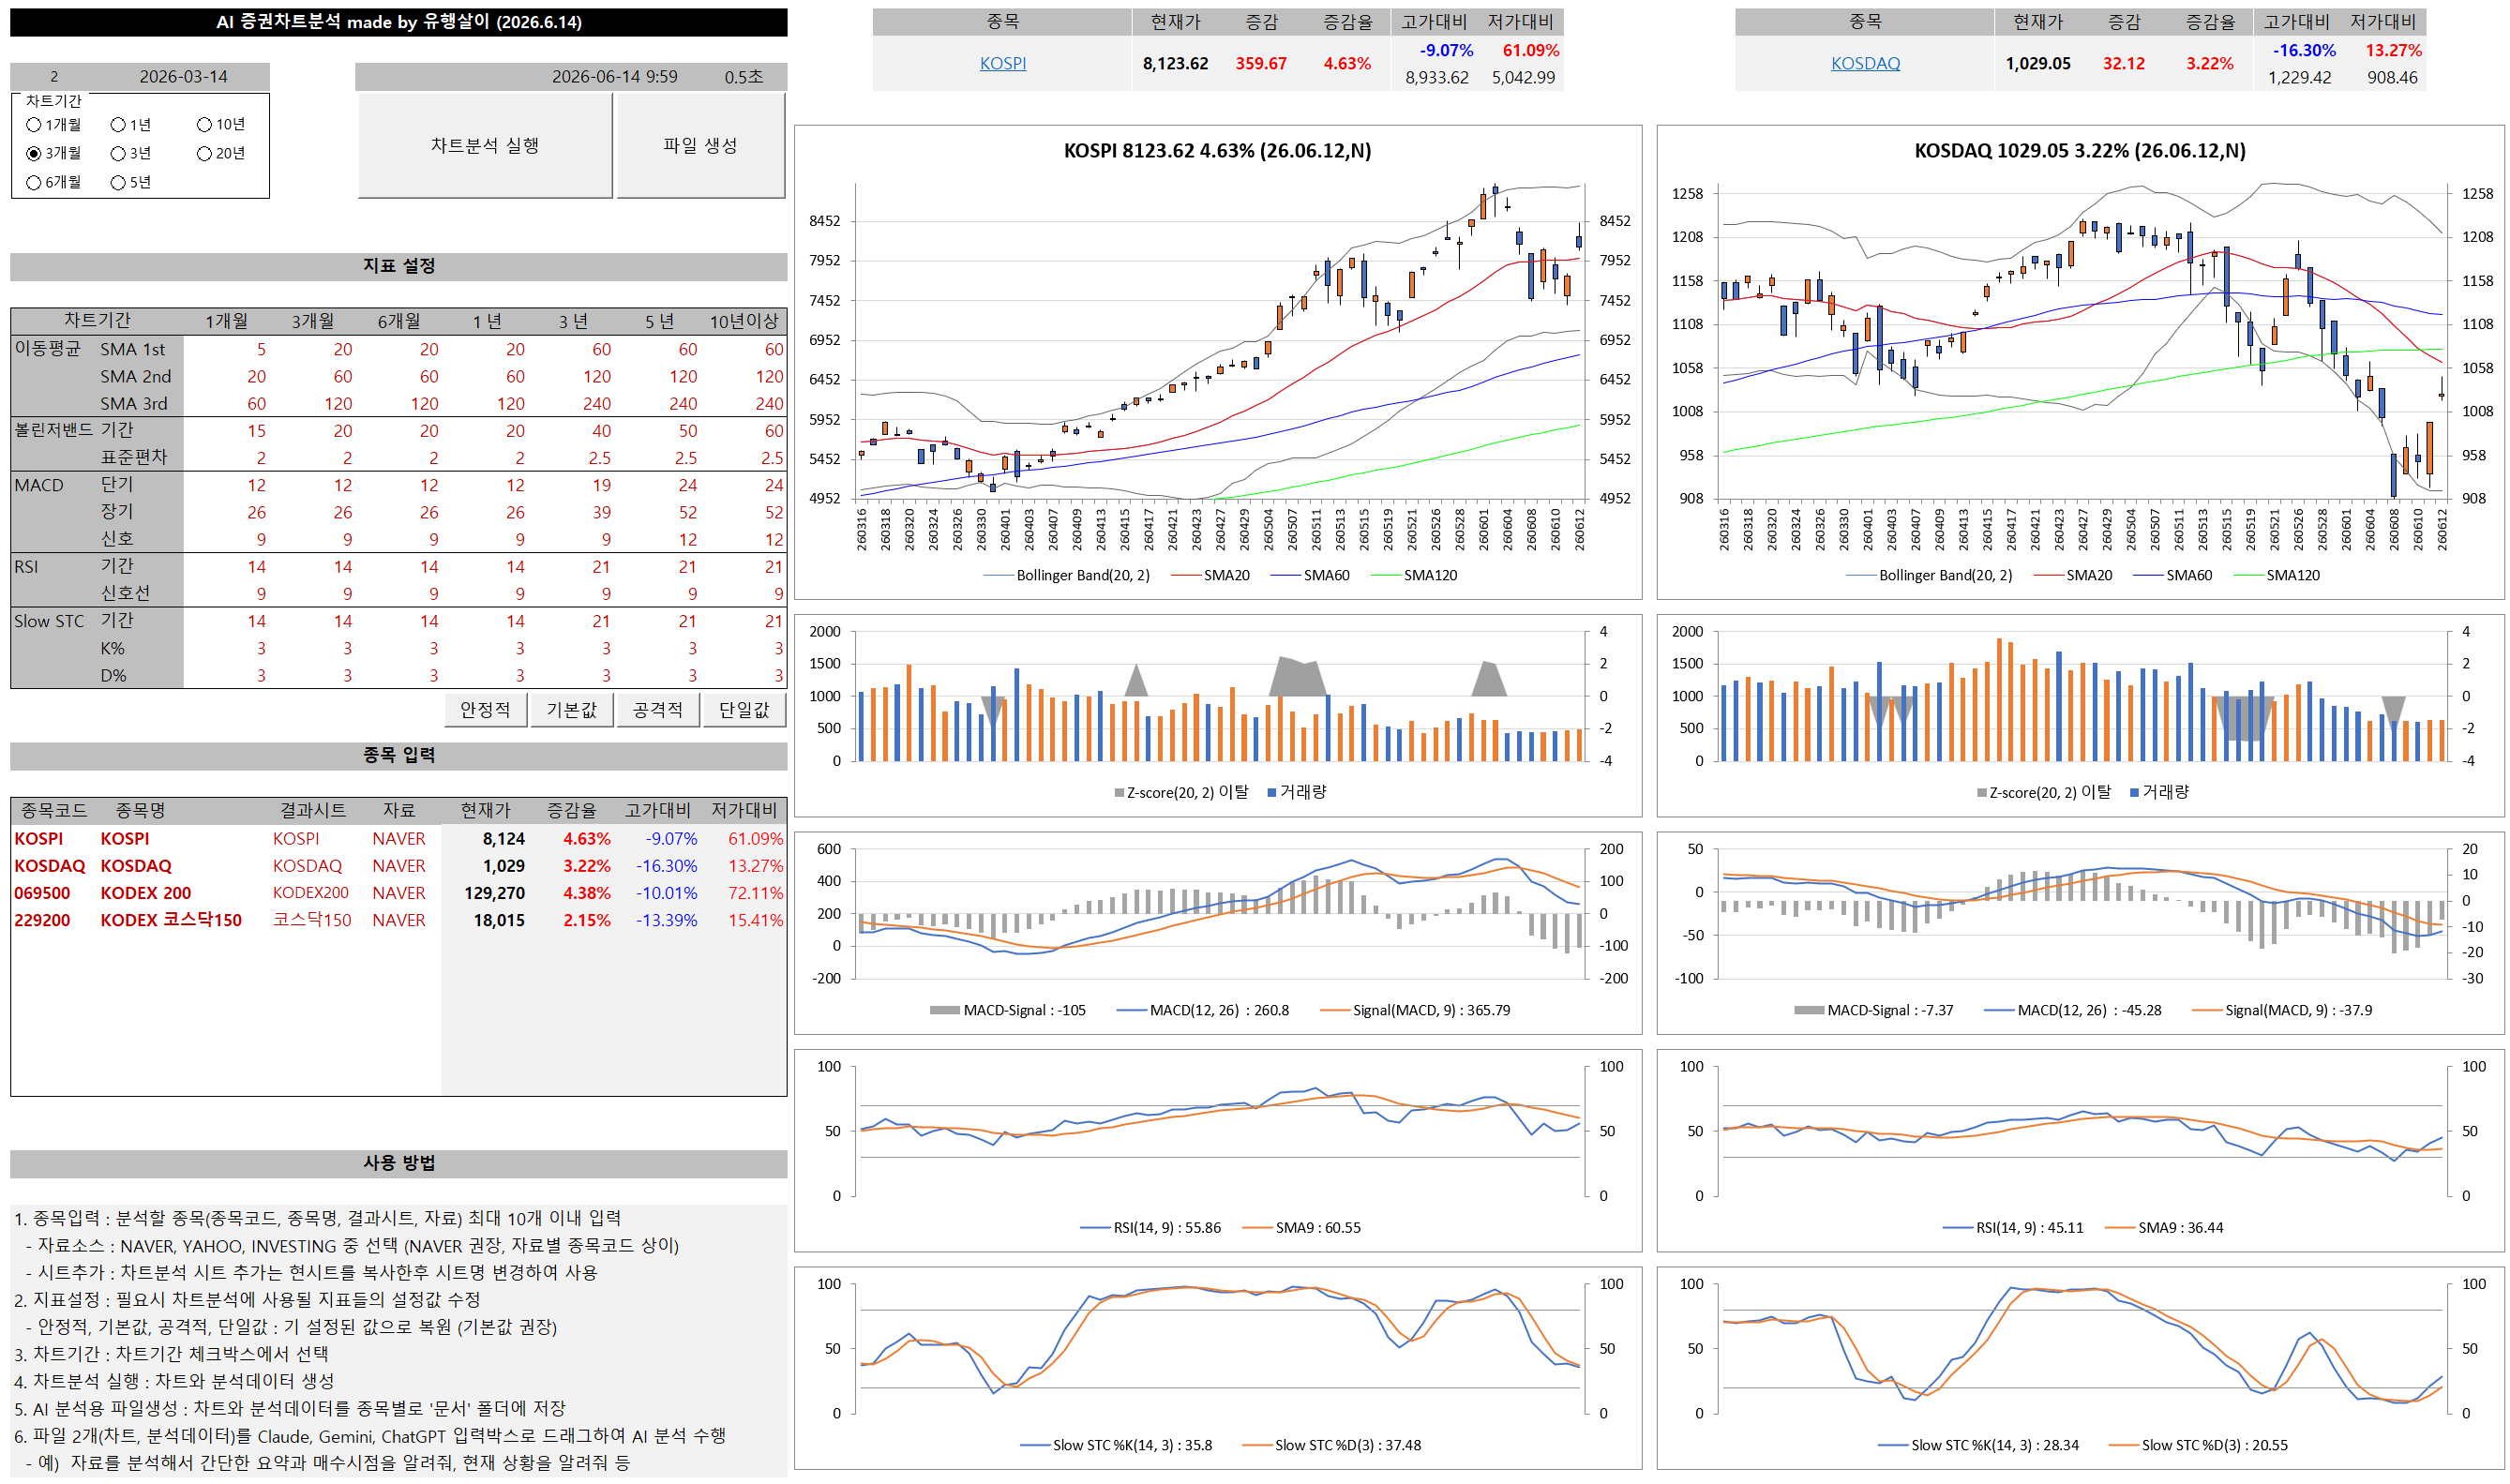
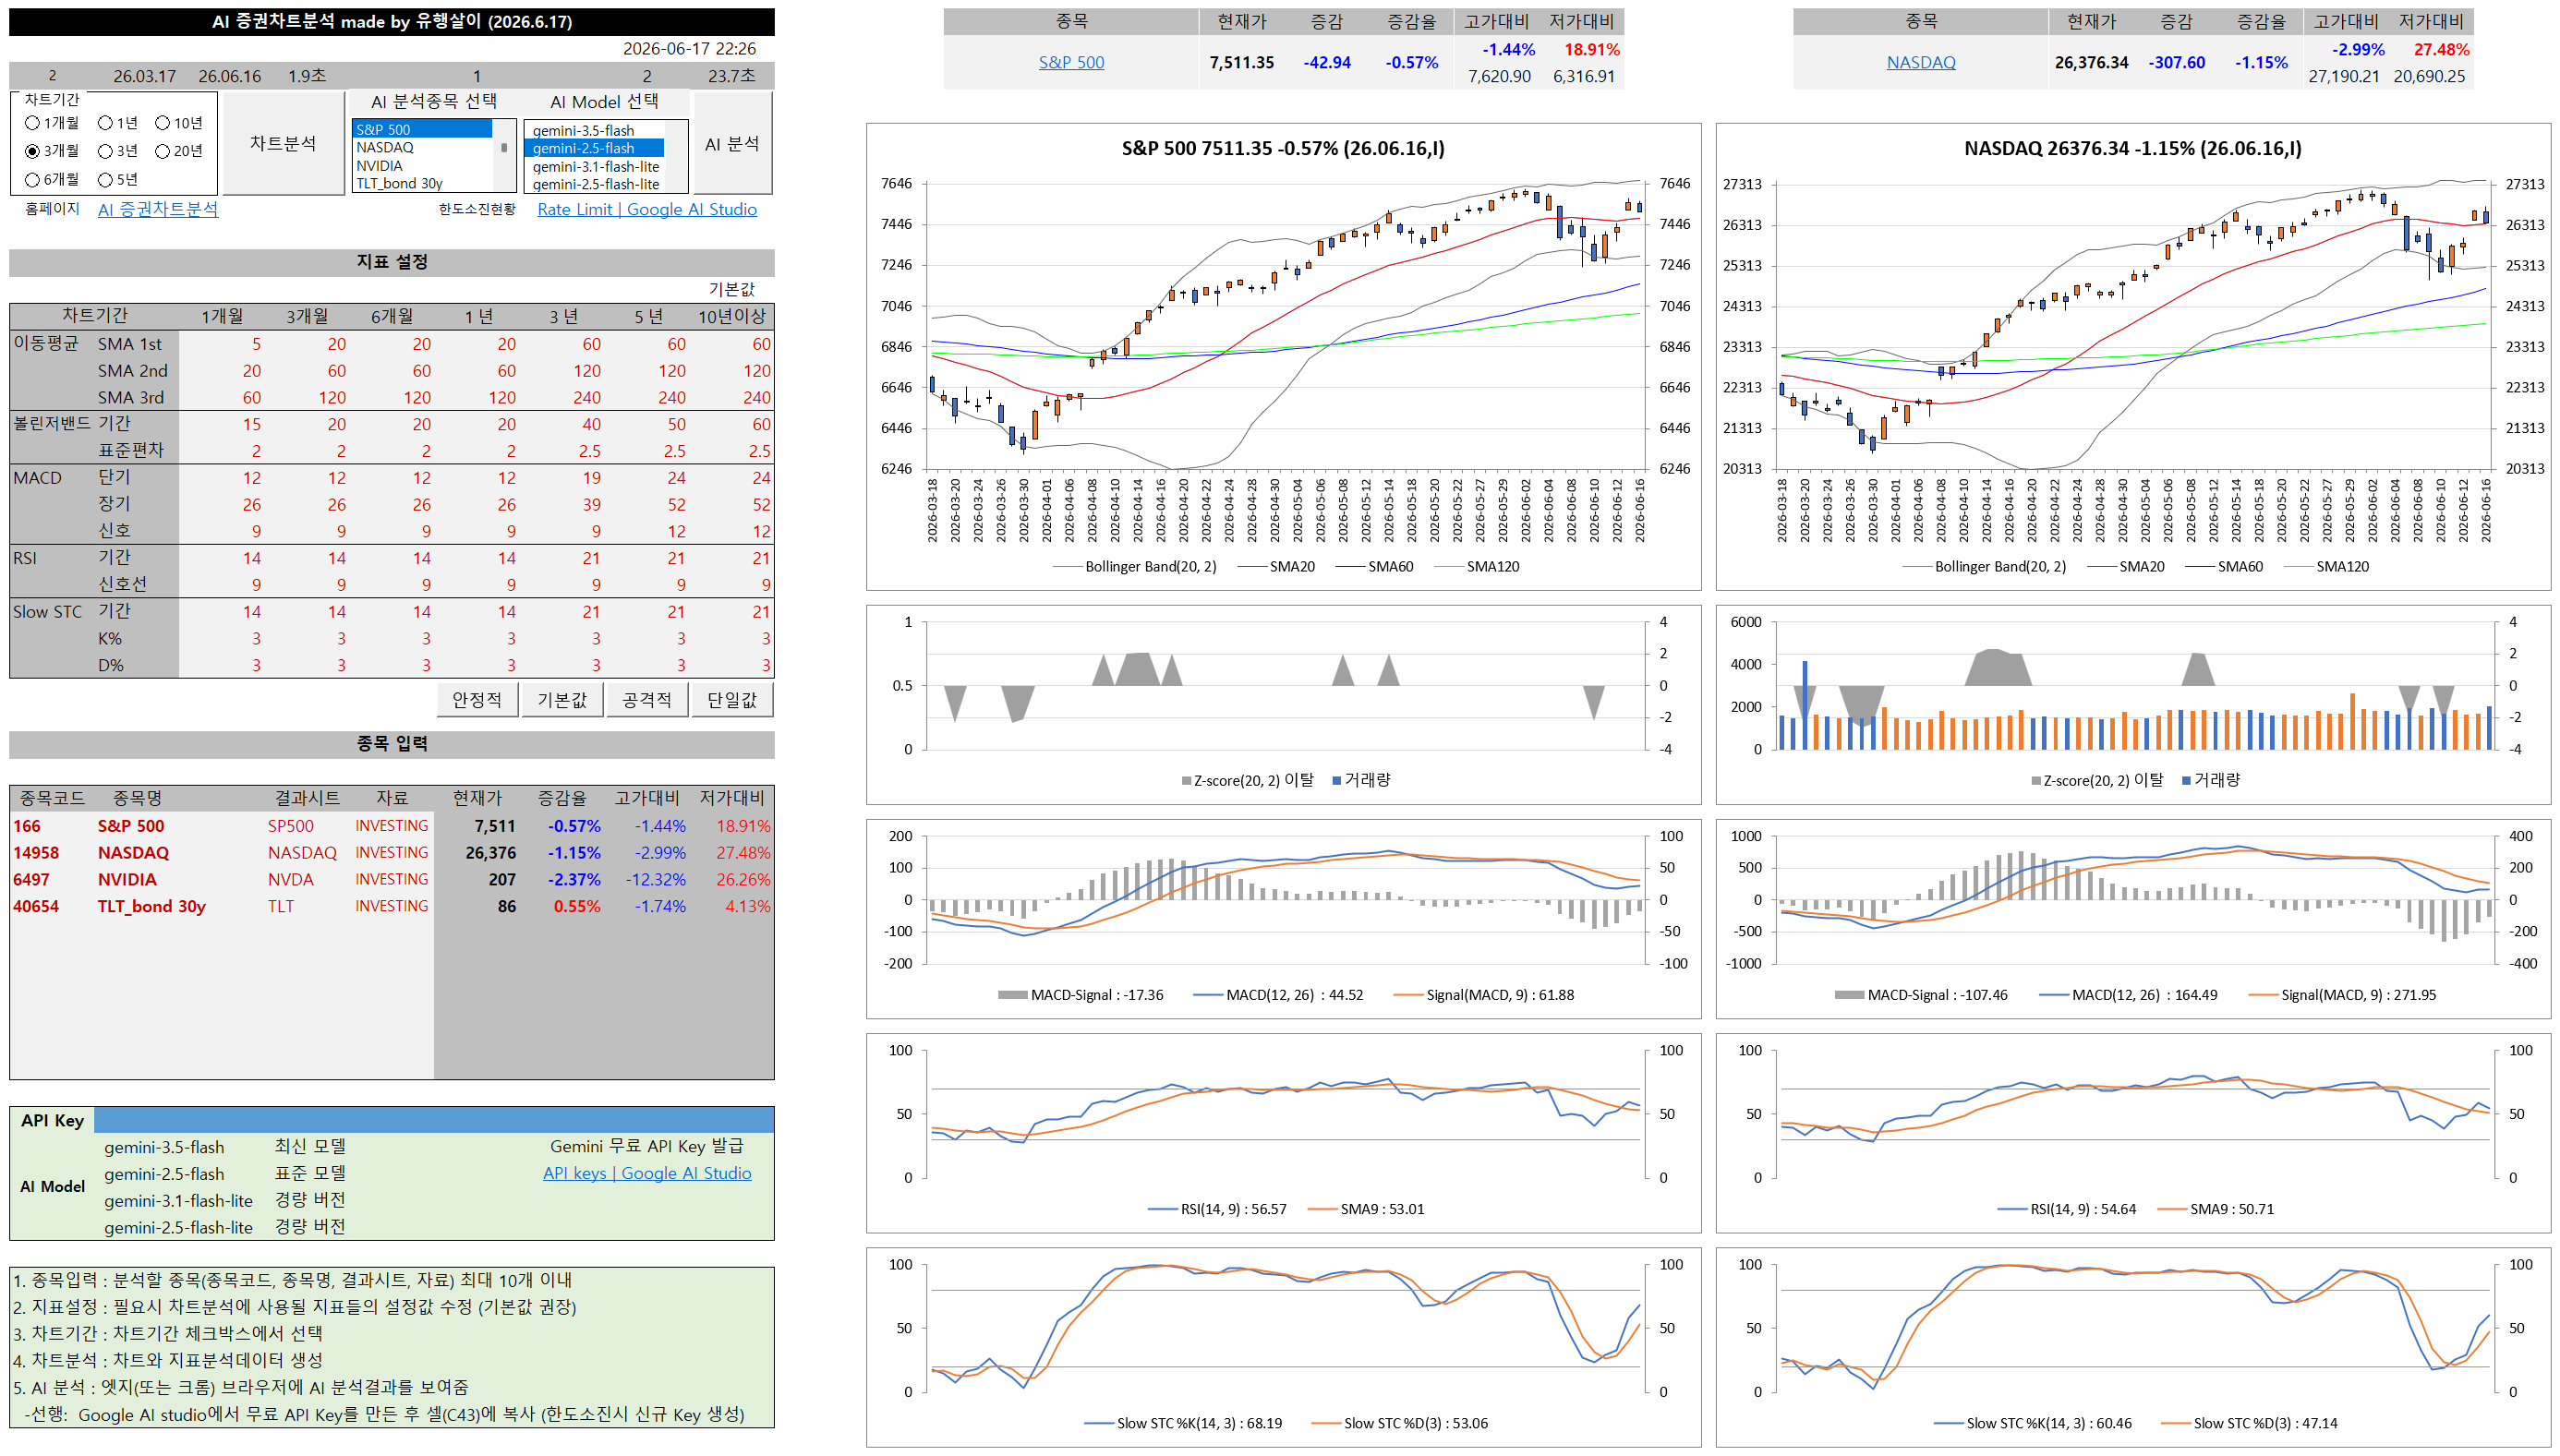
26.6.17

diff --git a/index_chartAI.html b/index_chartAI.html
@@ -158,9 +158,10 @@
     <ul>
         <li>
             <a href="https://drive.google.com/file/d/1DkqLu5V9N2BtamIzbtI6p8gDiIL3LtbI/view?usp=sharing" target="_blank" style="font-weight: bold;">
-                📥 다운로드 (수정일 2026.06.14)
-            </a>
+                📥 다운로드 (수정일 26.06.17)
+            </a> * 압축풀기 비밀번호 필요
         </li>
+        <li>차트분석 샘플 ☞ <a href="https://rainchj.github.io/sample_nasdaq.html" target="_blank">NASDAQ 차트 분석</a><br></li>
         <li>
             본 소프트웨어는 시계열 및 기술적 지표분석 데이터를 Claude, Gemini, ChatGPT 등 AI에서 활용할 수 있도록 학습용으로 개발한 프로그램으로 지인 등 일부에게만 공개합니다.
         </li>

diff --git a/sample_nasdaq.html b/sample_nasdaq.html
@@ -1,0 +1,1 @@
+<!DOCTYPE html><html lang='ko'><head><meta charset='UTF-8'><title>AI 시장 분석 리포트 - NASDAQ</title><style>body{font-family:'Malgun Gothic','Apple SD Gothic Neo',sans-serif;background:#f0f2f5;margin:0;padding:32px;color:#222;line-height:1.8}.container{max-width:860px;background:#fff;margin:0 auto;border-radius:16px;overflow:hidden;border:1px solid #dde3ec;box-shadow:0 4px 24px rgba(0,0,0,.06)}.report-header{background:#1a3a5c;padding:36px 40px 30px}.report-label{font-size:11px;letter-spacing:2.5px;color:#a8c4e0;text-transform:uppercase;margin-bottom:10px}.report-header h1{color:#fff;font-size:22px;font-weight:500;margin:0 0 22px;letter-spacing:-.3px}.meta-grid{display:grid;grid-template-columns:repeat(auto-fit,minmax(200px,1fr));gap:12px}.meta-item{background:rgba(255,255,255,.1);border:1px solid rgba(255,255,255,.15);border-radius:8px;padding:12px 16px}.meta-label{font-size:11px;color:#a8c4e0;margin-bottom:4px}.meta-value{font-size:14px;color:#e8eef5;font-weight:500}.report-body{padding:36px 40px}h1{color:#111;font-size:26px;margin-top:0;border-bottom:2px solid #eceff1;padding-bottom:15px}h2{color:#0d6efd;font-size:22px;margin-top:25px;margin-bottom:6px;border-bottom:1px solid #dee2e6;padding-bottom:6px}h3{color:#495057;font-size:18px;margin-top:18px;margin-bottom:4px;font-weight:bold}strong{color:#d9480f;padding:2px 6px;border-radius:4px;font-weight:bold;font-size:.98em}p.bullet{padding-left:20px;text-indent:-20px;margin:4px 0;display:block}hr{border:0;height:1px;background:#e0e0e0;margin:30px 0}.report-footer{background:#f8fafc;border-top:1px solid #e4e8ef;padding:14px 40px;font-size:12px;color:#8a96a8;display:flex;justify-content:space-between}</style></head><body><div class='container'><div class='report-header'><div class='report-label'>AI Market Analysis Report</div><h1>NASDAQ (14958) 기술적 분석</h1><div class='meta-grid'><div class='meta-item'><div class='meta-label'>분석 기간</div><div class='meta-value'>1년 (25.06.17~26.06.16)</div></div><div class='meta-item'><div class='meta-label'>AI 모델</div><div class='meta-value'>gemini-3.5-flash</div></div><div class='meta-item'><div class='meta-label'>분석 일시</div><div class='meta-value'>2026.06.17 22:04</div></div></div></div><div class='report-body'>제시해주신 나스닥(NASDAQ) 지수와 기술적 지표 데이터를 바탕으로 현재 시장 상황을 진단하고, 각 지표별 상세 분석 및 이를 활용한 유력한 매수 전략을 제안해 드립니다. 분석은 가장 최근 데이터인 <strong>2026년 6월 16일(종가 26,376.34)</strong>을 기준으로 작성되었습니다.<br><br><h3>[시장 상황]</h3><br>현재 나스닥 시장은 <strong>장기적인 상승 추세 속에서 단기 급락 후 첫 반등에 성공하며 숨고르기에 들어간  단기 눌림목 회복 국면 </strong>으로 진단할 수 있습니다. <br><br>지난 2026년 6월 초 27,000선에서 시작된 단기 조정으로 인해 지수는 6월 9일 장중 24,980선까지 급락하며 과매도 구간에 진입했습니다. 그러나 이후 강력한 저가 매수세가 유입되면서 빠르게 반등하여 현재는 26,300선 위로 올라섰습니다. 장기 이평선들이 여전히 정배열을 유지하고 있어 장기 상승 동력은 훼손되지 않았으며, 단기 과매도 해소 이후 추가 상승을 모색하는 과도기적 단계에 위치해 있습니다.<br><br><h3>[지표 분석]</h3><br><strong>1. 이동평균선 (SMA)</strong><br><p class='bullet'>▷   현재 주가(26,376.34)는 20일선(26,355.55)을 미세하게 상회하고 있으며, 60일선(24,763.76)과 120일선(23,904.916)보다 훨씬 위에 위치해 있습니다. </p><p class='bullet'>▷   장기 이평선이 아래에서 든든한 지지선 역할을 하는 전형적인  정배열(Uptrend)  상태이므로, 최근의 하락은 추세 반전이 아닌 건전한 조정(눌림목)이었음을 보여줍니다.</p><br><strong>2. 볼린저 밴드 (Bollinger Band)</strong><br><p class='bullet'>▷   6월 9일~10일경 주가가 하한선(LowerBand :  약 25,355)을 이탈하며 극단적인 과매도 상태에 도달했으나, 이를 기점으로 강한 반등이 나왔습니다.</p><p class='bullet'>▷   현재 주가는 밴드의 중심선(20일 이동평균선) 부근에 바짝 붙어 수렴하고 있으며, 중심선 안착 여부에 따라 향후 상한선(27,430)을 향한 추가 상승 여부가 결정될 것입니다.</p><br><strong>3. MACD</strong><br><p class='bullet'>▷   MACD선(164.48)이 시그널선(271.94) 아래에 머물고 있어 공식적인 매수 신호(골든크로스)는 아직 발생하지 않았습니다.</p><p class='bullet'>▷   그러나 MACD 히스토그램(MACD-Signal)이 6월 10일 최저점(-263.17)을 찍은 후 현재 -107.46까지 빠르게 축소되고 있습니다. 이는 하락 에너지가 급격히 약화되고 있으며, 조만간 상승 전환 신호가 나타날 가능성이 매우 높음을 시사합니다.</p><br><strong>4. RSI (상대강도지수)</strong><br><p class='bullet'>▷   RSI 수치는 54.64로, 과매도 기준선(30)과 과매수 기준선(70)의 중간인 중립 영역에 위치해 있습니다.</p><p class='bullet'>▷   6월 10일 38.71까지 떨어지며 침체기에 진입했다가 50선 위로 재돌파에 성공한 것은 매수세가 시장의 주도권을 다시 장악하기 시작했음을 의미합니다.</p><br><strong>5. Slow Stochastic (슬로우 스토캐스틱)</strong><br><p class='bullet'>▷   %K선(60.46)이 %D선(47.14)을 아래에서 위로 뚫고 올라가는 <strong> 골든크로스 </strong>가 이미 발생하여 상승 흐름을 타고 있습니다.</p><p class='bullet'>▷   침체 구간(20 이하)을 탈출한 뒤 상승 에너지가 누적되고 있어, 단기 기술적 반등 신호로서 신뢰도가 매우 높은 상태입니다.</p><br><h3>[추천 매수 전략 및 시점]</h3><br>장기 추세가 살아있는 상태에서 단기 과매도가 해소되는 국면이므로, 매도보다는 <strong> 적극적인 분할 매수 </strong> 관점으로 접근하는 것이 유력합니다. 구체적인 실행 전략은 다음과 같습니다.<br><br><p class='bullet'>▷   <strong>1차 매수 시점 (공격적 진입 - 현재 구간) : </strong> </p>    스토캐스틱 골든크로스가 이미 발생했고 주가가 20일 이동평균선(26,355) 위에 안착하려는 시도를 하고 있으므로, 현재 가격대에서 전체 투자 예정 금액의 <strong>30%~40%를 선제적으로 분할 매수</strong>하는 전략이 유효합니다.<br><p class='bullet'>▷   <strong>2차 매수 시점 (보수적/확인 매수 - 추세 확정 시) : </strong> </p>    향후 수일 내에 <strong>MACD선이 시그널선을 상향 돌파하는 골든크로스가 완성되는 시점</strong> 혹은 주가가 20일 이동평균선 위에서 완전히 지지받으며 양봉을 기록하는 날에 나머지 <strong>60%~70%의 비중을 실어 본격적으로 진입</strong>하는 것이 안전합니다.<br><p class='bullet'>▷   <strong>리스크 관리 (손절 기준) : </strong> </p>    만약 시장이 재차 하락하여 최근의 강력한 지지선이었던 60일 이동평균선(약 24,760선)을 하향 이탈할 경우, 단기 하락 추세가 연장될 수 있으므로 이때는 비중 축소나 손절매를 통해 현금을 확보하는 리스크 관리가 필요합니다.</div><div class='report-footer'><span>본 분석은 AI가 생성한 참고 자료이며 투자 결정의 책임은 투자자에게 있습니다.</span><span>AI Analysis Report</span></div></div></body></html>